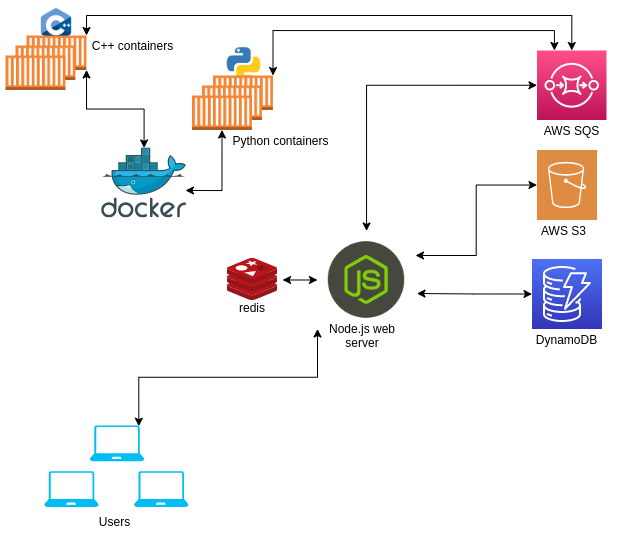
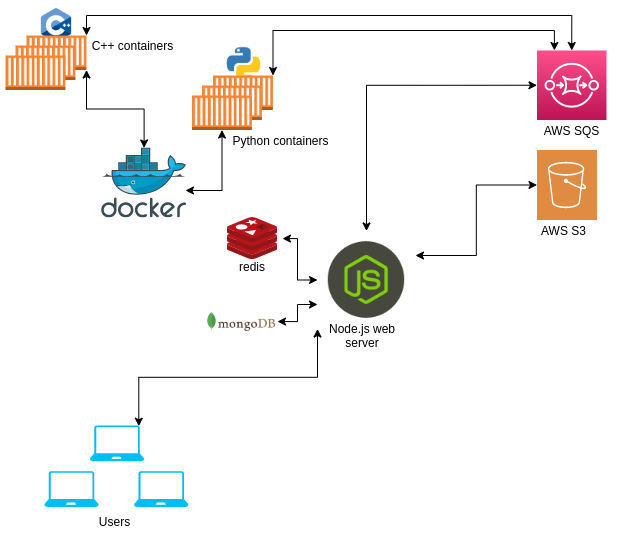
update arch

Changed region(s): [[0.6603, 0.4767, 0.9605, 0.6555], [0.3302, 0.3873, 0.4803, 0.6257]]

diff --git a/README.md b/README.md
@@ -4,7 +4,7 @@
 
 ## Features
 
-- Remotely solve algorithmic problems and execute C++ or python code in secure environment.
+- Remotely solve algorithmic problems and execute C++ or Python code in secure environment.
 - Test your code, set memory and time limit.
 - Save and share your work.
 
@@ -12,8 +12,9 @@
 
 <p align="center"><img src="https://github.com/vi88i/rexe/blob/main/assets/rexe.png" alt="rexe"></p>
 
-- Node.js web server: Handles all user requests.
-- mongoDB: Stores client information.
-- Docker: Manage Docker containers.
-- Message queue: Queue requests.
-- AWS S3: Store static files.
+- <b>Node.js web server</b>: Handles all user requests.
+- <b>mongoDB</b>: Stores client information.
+- <b>Docker</b>: Manage Docker containers.
+- <b>AWS SQS</b>: Queue requests and responses.
+- <b>AWS S3</b>: Store static files.
+- <b>redis</b>: Caching reptitive static data.
